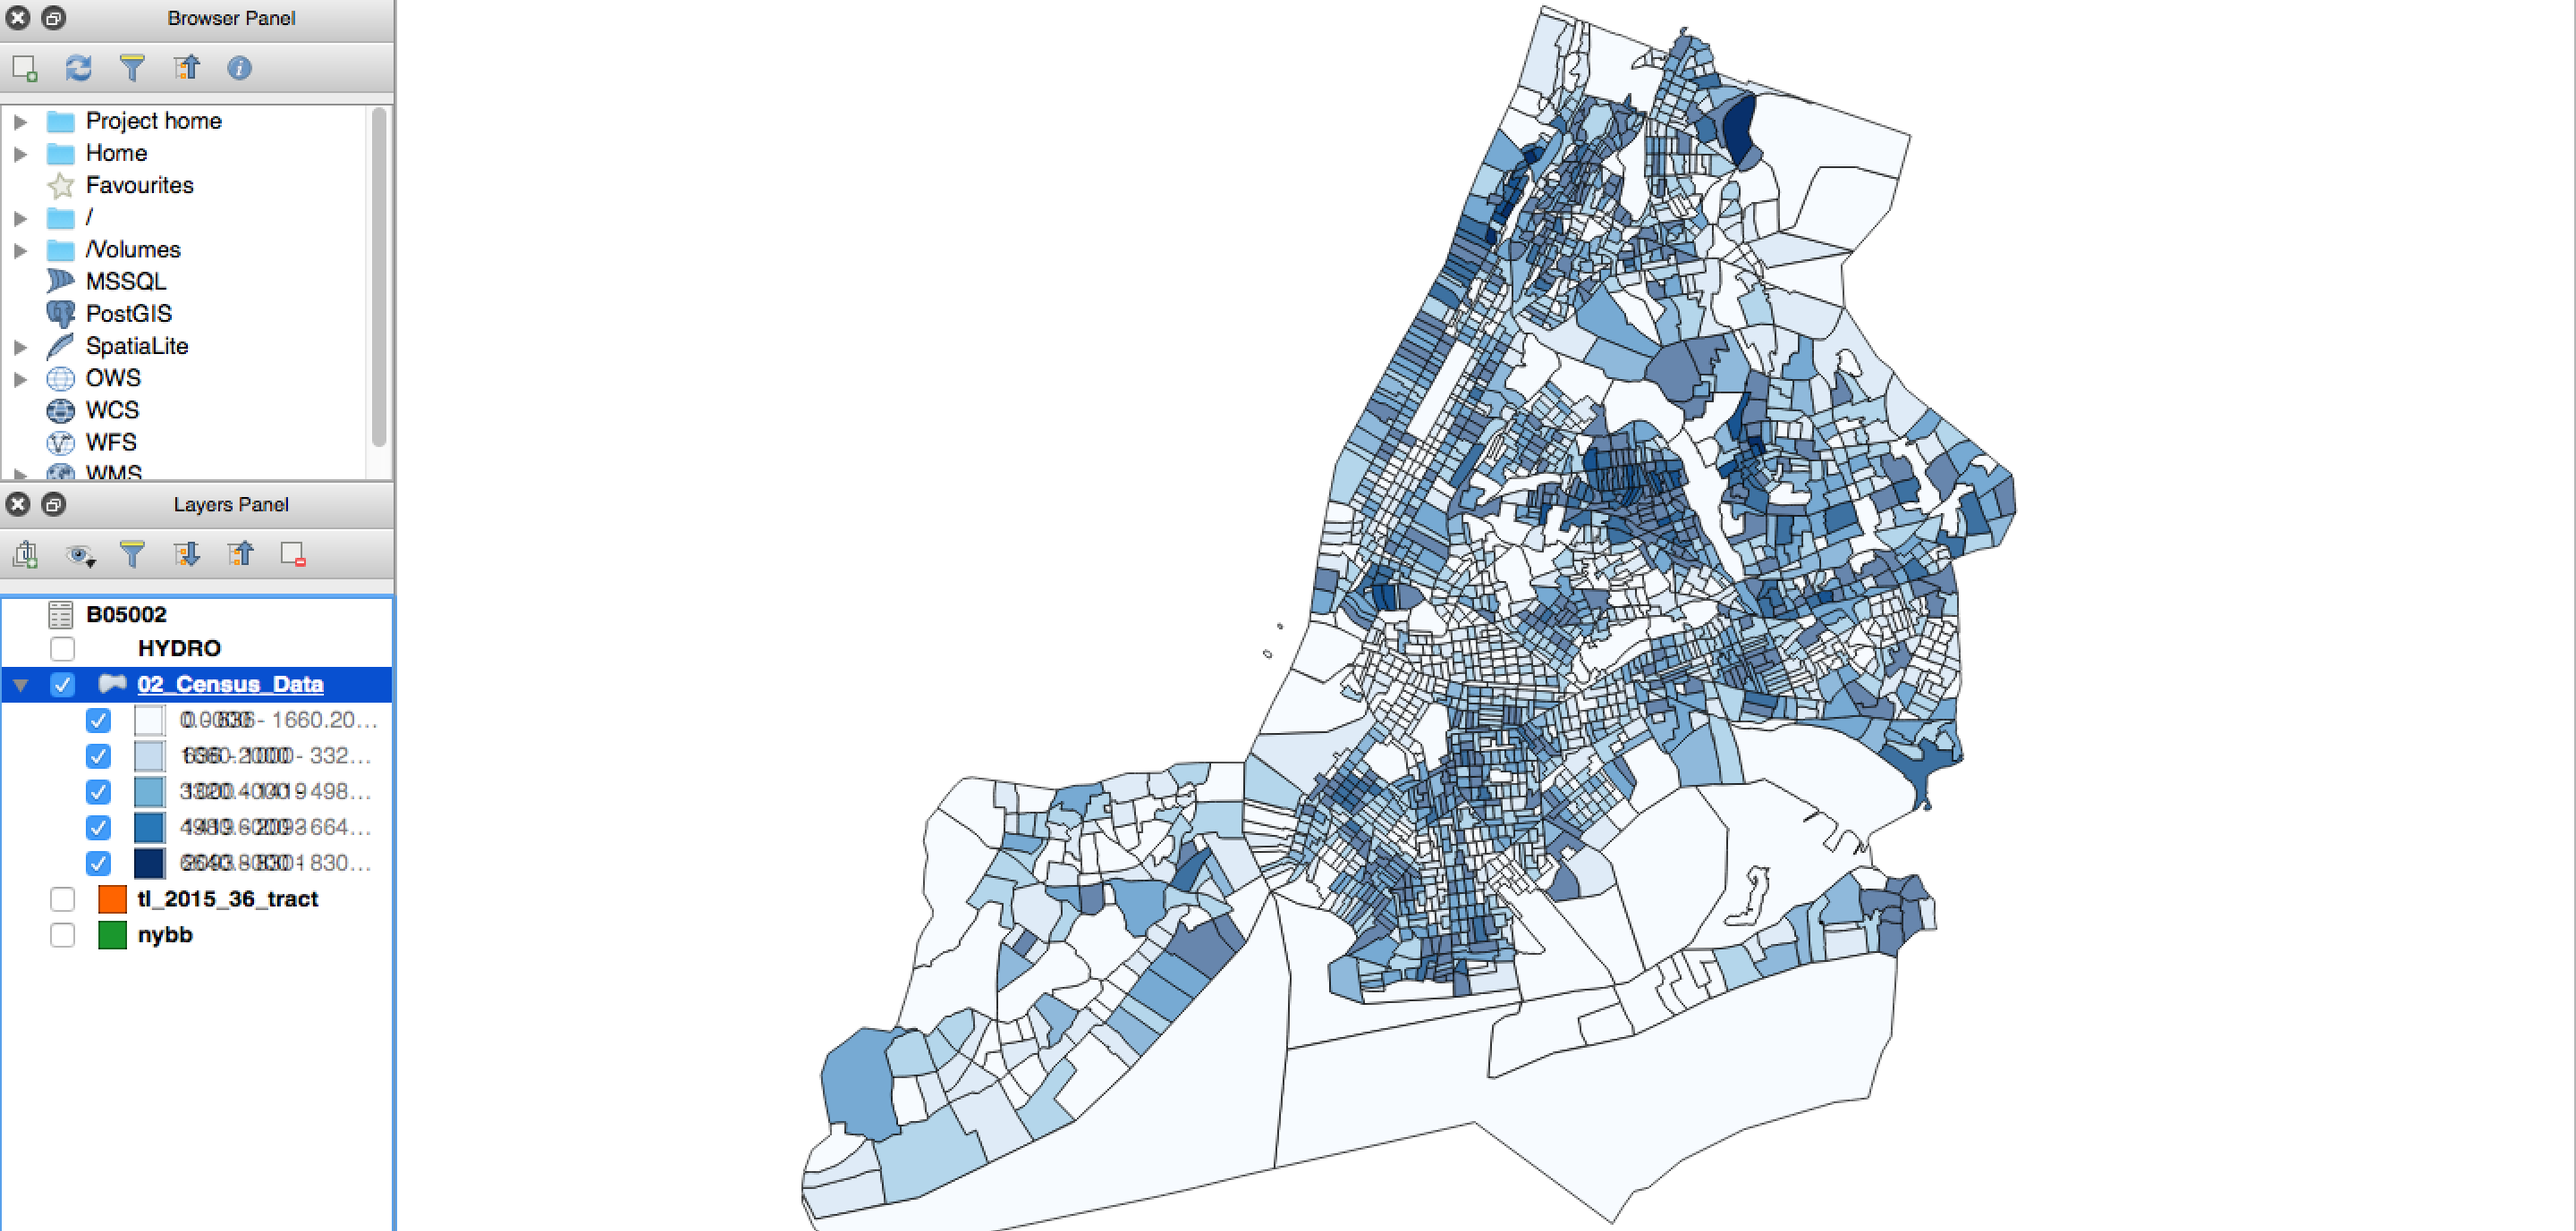
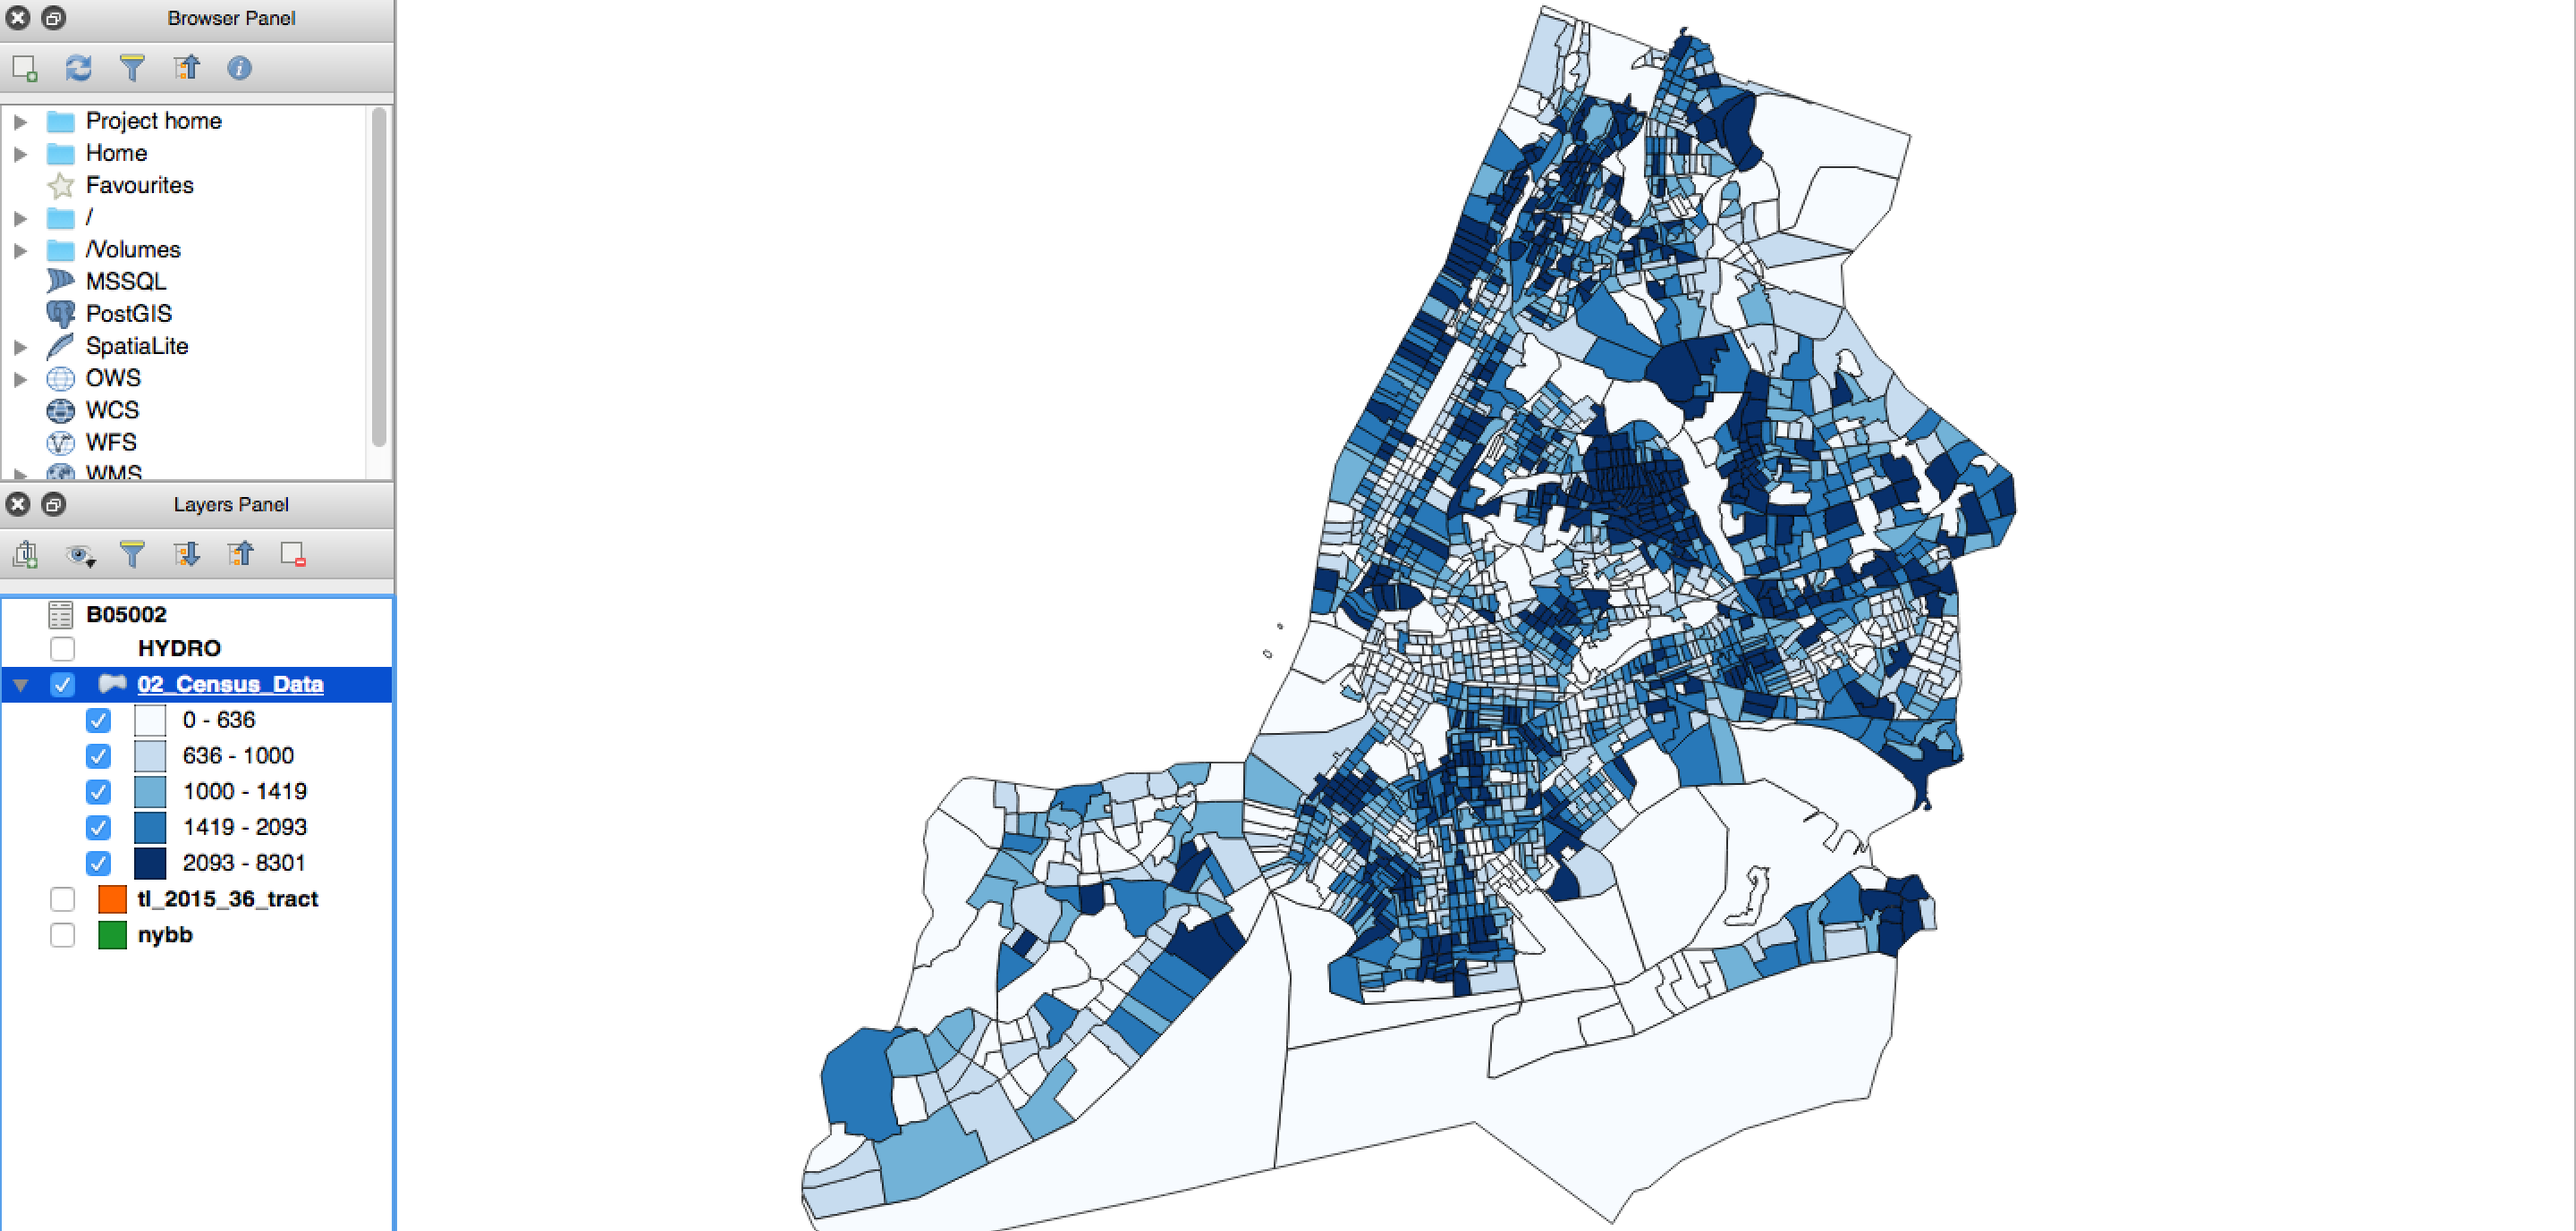
updated tutorial 03

Changed region(s): [[0.3125, 0.0312, 0.7812, 0.9993], [0.0625, 0.5621, 0.1562, 0.7182], [0.6562, 0.7182, 0.75, 0.8119]]

diff --git a/Spring_2016/Tutorials/03_Joining_Tables_and_Census_Data.md b/Spring_2016/Tutorials/03_Joining_Tables_and_Census_Data.md
@@ -212,7 +212,7 @@ First, just so you can see the difference between the different classification m
   * The default mode of classification is `Equal Interval`.
   * You will notice that the breaks start from 0 and advance in increments of 1660.2. The `Equal Interval` takes the full range of the *values* and divides it into the number of classes (in our case, 5).
   * If you click on the `Histogram` option and then on the `Load values` button you will see how the program divides the data.
-  * Click `OK` and take a look at the map.
+  * Click `OK` and take a look at the map:
 
   ![Equal Interval](https://github.com/juanfrans-courses/mapping_arch_hum/blob/master/Spring_2016/Tutorials/Images/03_Joining_Tables_and_Census_Data/16_Equal_Interval.png)
 
@@ -224,16 +224,22 @@ First, just so you can see the difference between the different classification m
   * Choose `Quantile (Equal Count)` as the classification mode.
   * This classification method gets the total number of features and divides it by the number of classes, so that each class has an equal number of features. The problem with this method is that features that might be very far apart in terms of their values might end up in the same class.
   * Go to the `Histogram` option and click on `Load values` to see how this classification method splits the data.
-  * Click `OK` and take a look at the map.
+  * Click `OK` and take a look at the map:
 
   ![Quantiles](https://github.com/juanfrans-courses/mapping_arch_hum/blob/master/Spring_2016/Tutorials/Images/03_Joining_Tables_and_Census_Data/17_Quantiles.png)
 
   * Here you see how every class has an equal number of features, but for example the census tract for Co-Op City, which we know has one of the highest counts of foreigners in the city, gets lumped up with many other census tracts, some of which might not have that many foreigners.
 
+* Natural Breaks (Jenks)
+  * Now change the classification method to `Natural Breaks (Jenks)`.
+  * This classification method looks at the data and tries to maximize the difference between classes while minimizing the difference inside each class.
+  * Take a look at the `Histogram` to see how this classification method treats the data.
+  * You see how the divisions in the data follow the general pattern of the histogram.
+  * Click `OK` and take a look at the map:
 
+  ![Natural Breaks](https://github.com/juanfrans-courses/mapping_arch_hum/blob/master/Spring_2016/Tutorials/Images/03_Joining_Tables_and_Census_Data/18_Natural_Breaks.png)
 
-
-
+  * This map is probably the most balanced one, clearly underlining the census tracts that have high values but still showing the variation in the rest of the census tracts.
 
 
 
